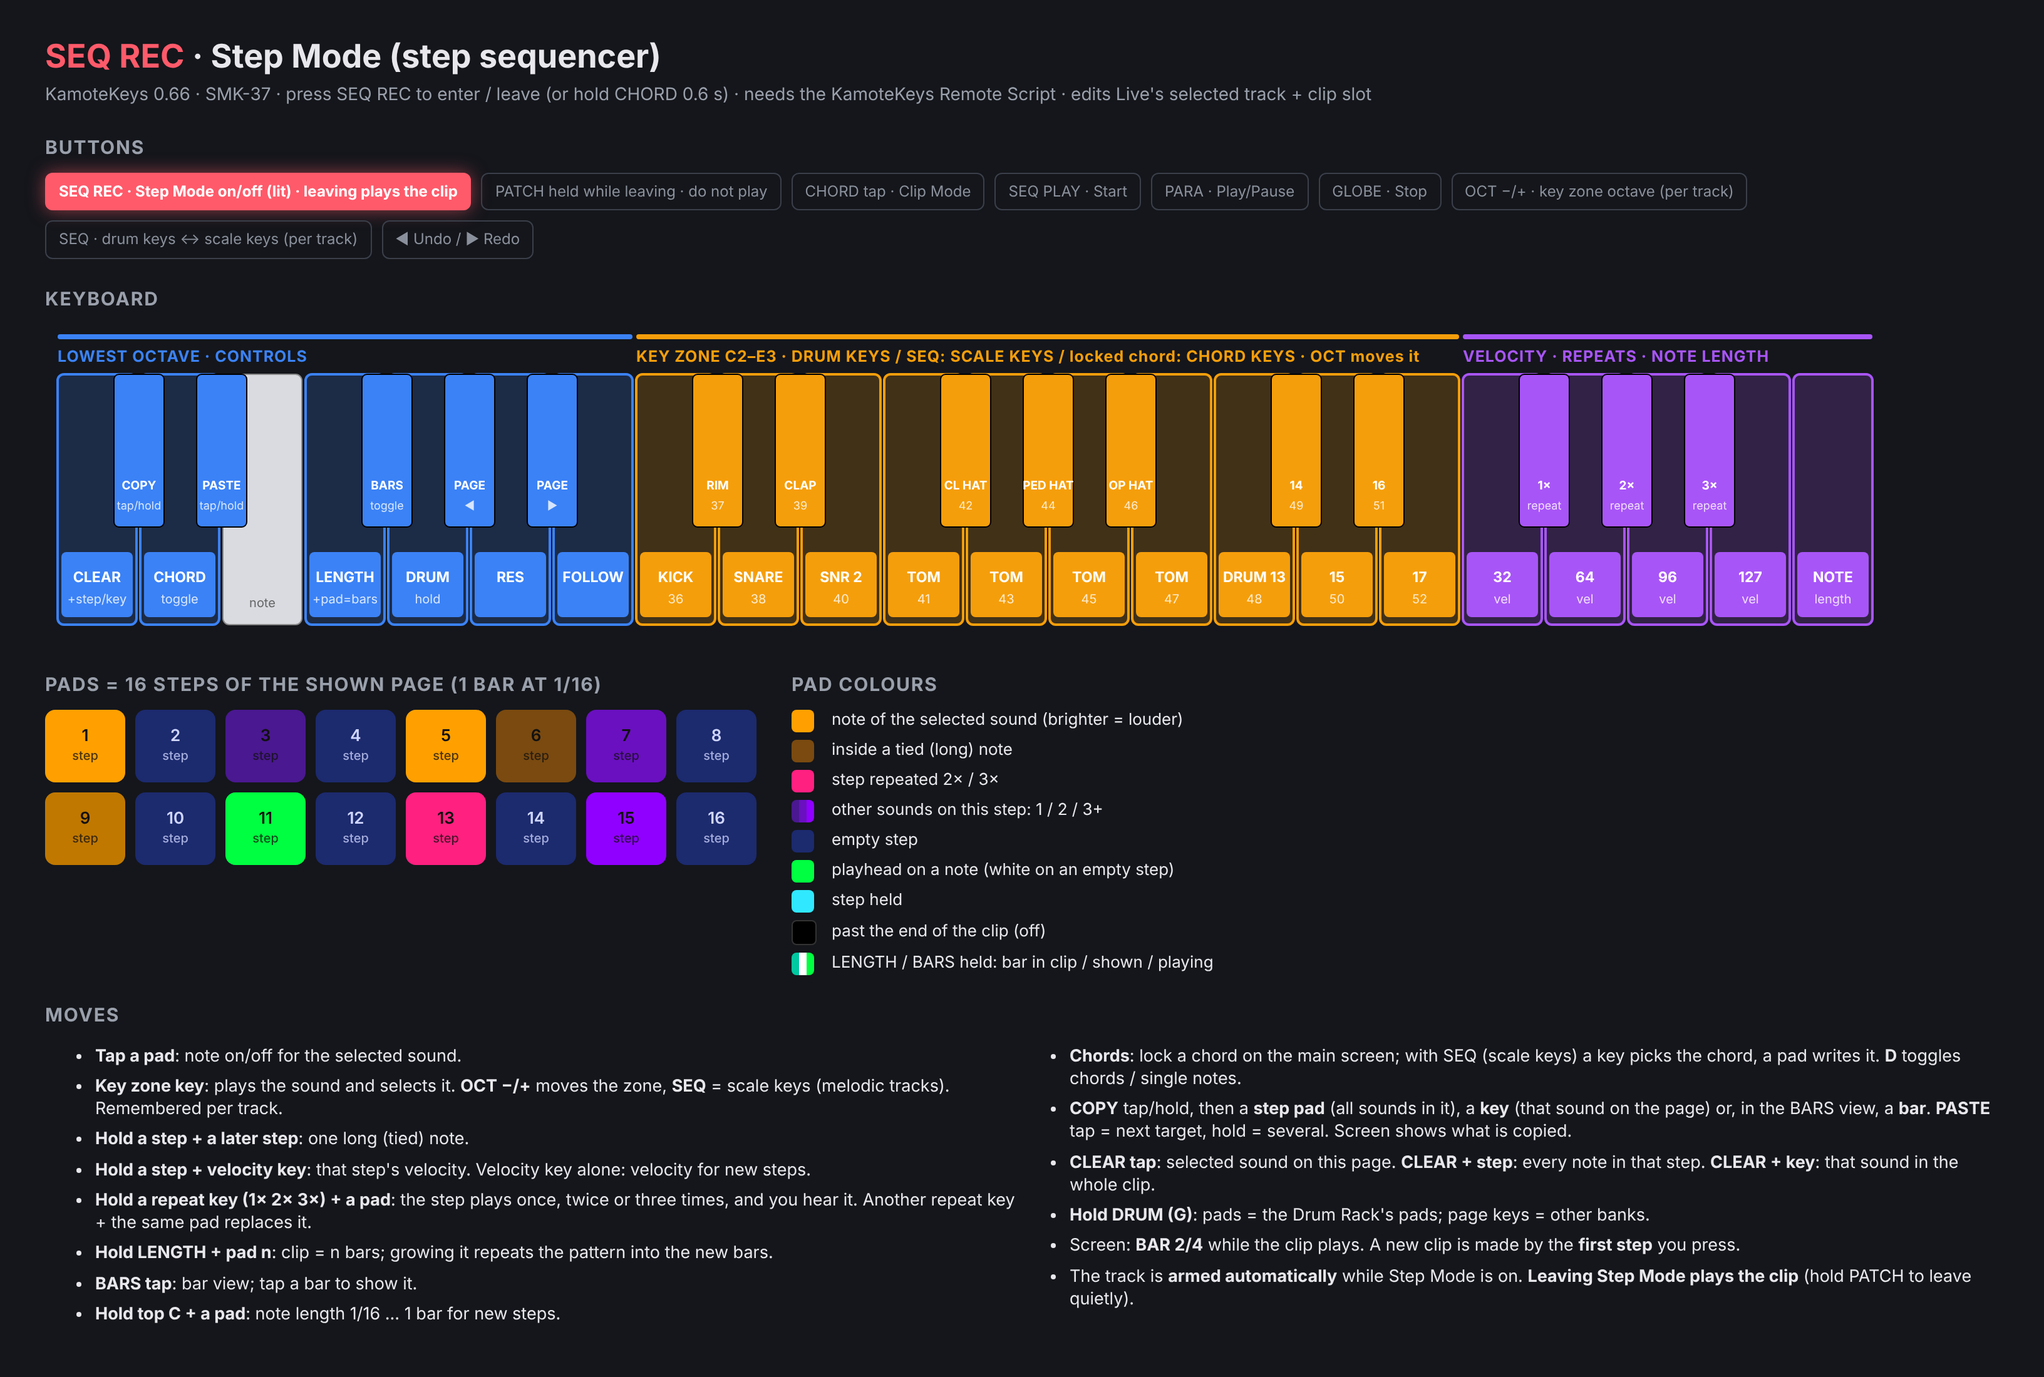
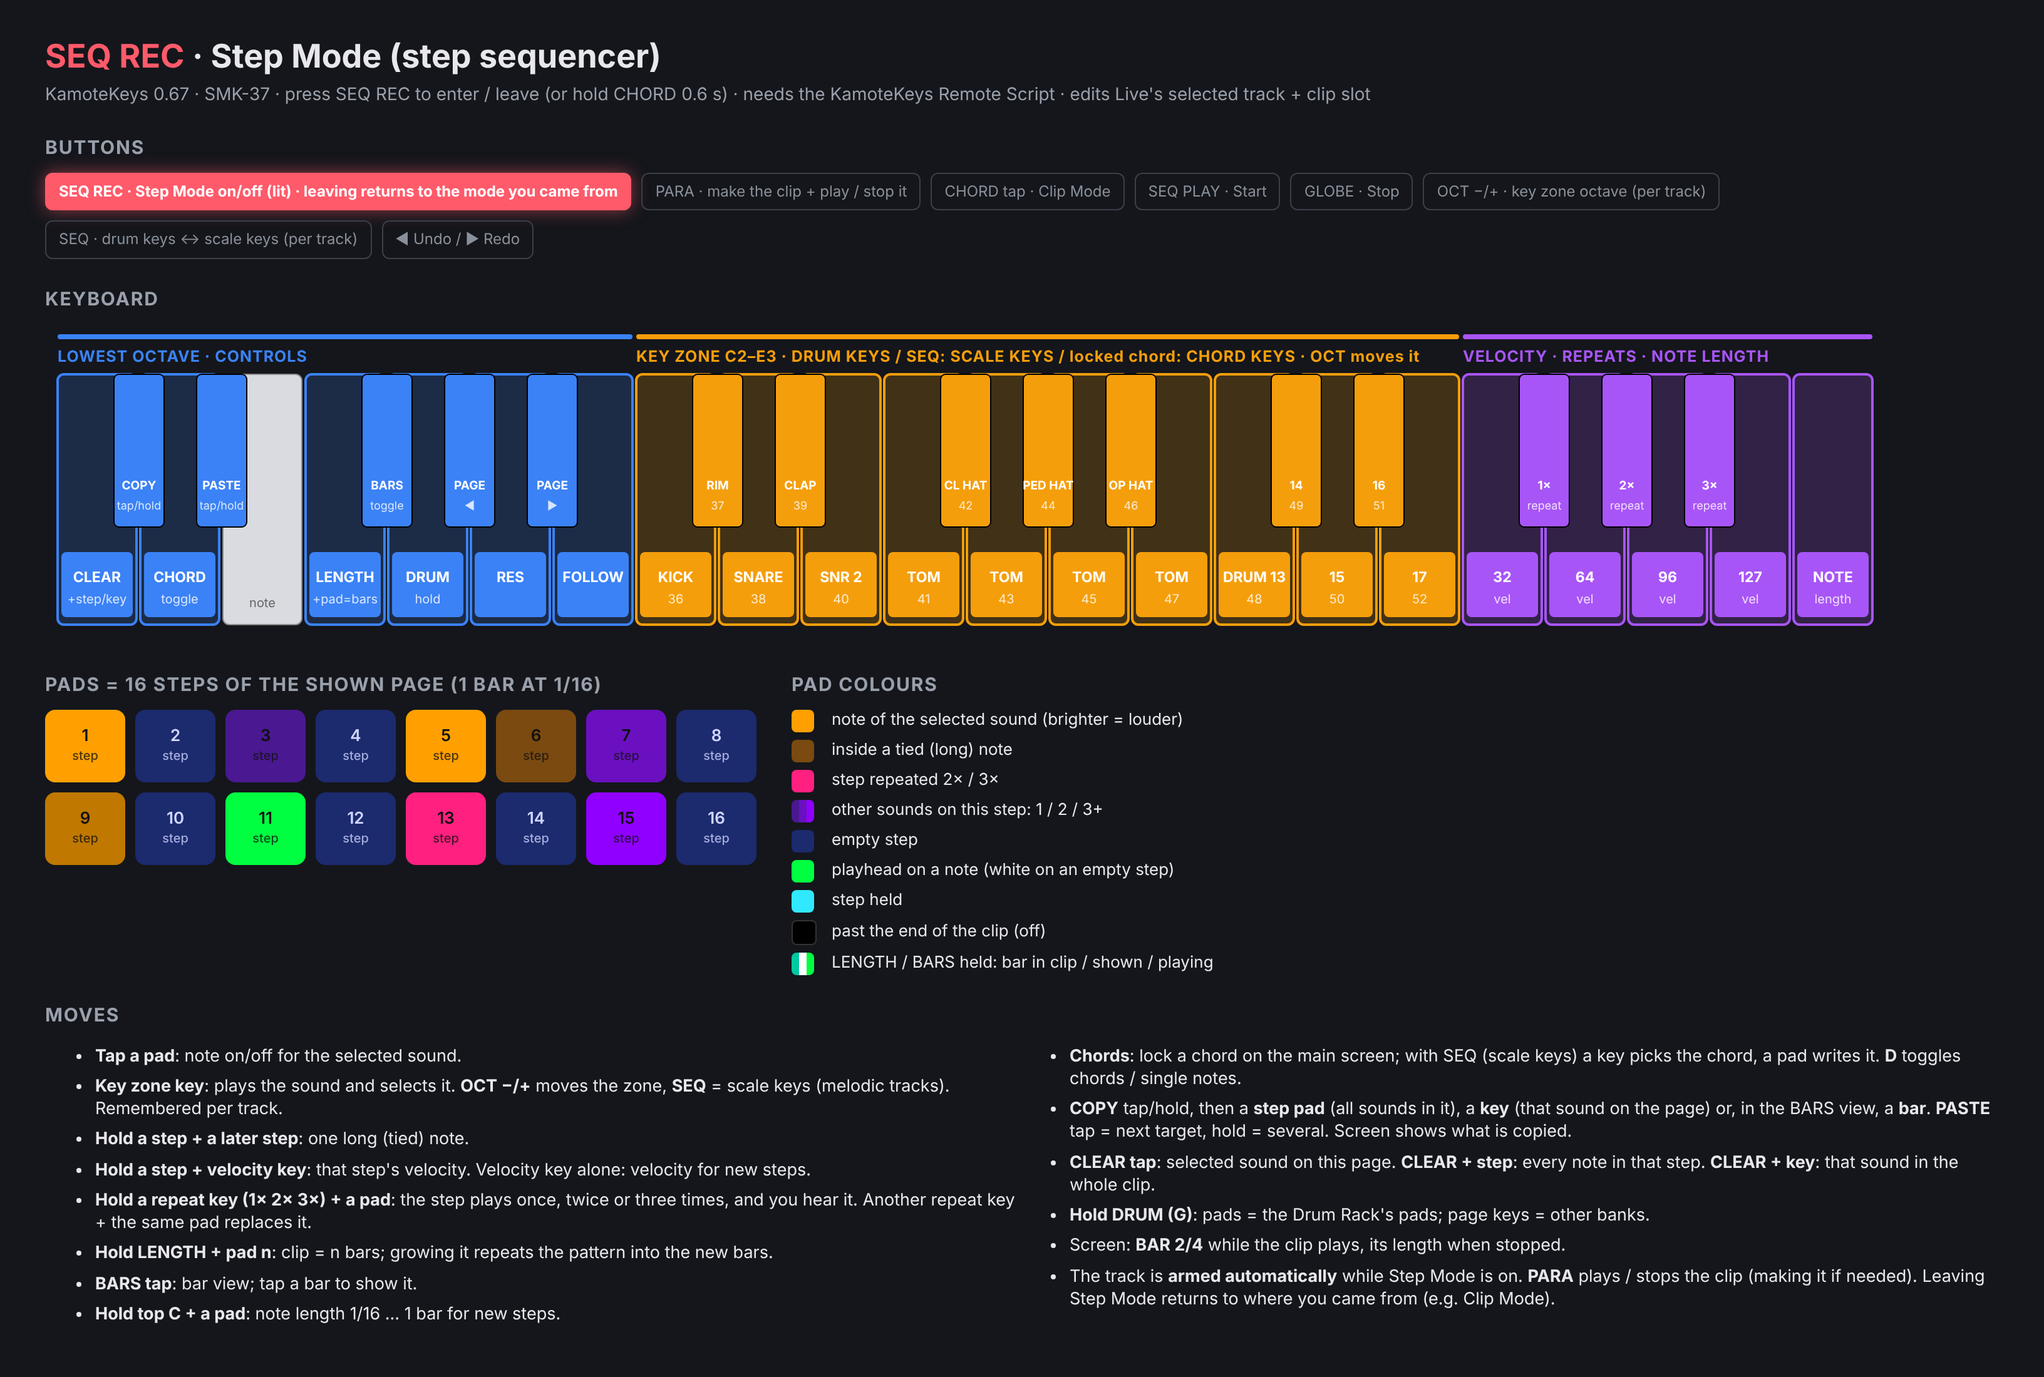
KamoteKeys 0.67: Bubbles startup, Step Mode returns to the previous mode, PARA plays the step clip, DRUM view follows the selected sound, track view on top A/B
Claude-Session: https://claude.ai/code/session_014nKCDtX9z2HT4cnrjTFgfW

diff --git a/tests/remote_script/test_kamotkeys_script.py b/tests/remote_script/test_kamotkeys_script.py
@@ -146,7 +146,7 @@ class T(unittest.TestCase):
         notes = sorted(b.identifier for b in registry if b.msg_type == 0 and b.channel == 15)
         self.assertEqual(notes, list(range(36, 103)))     # launch, overdub, delete, select, COPY, PASTE, ARRANGE
         steps = sorted(b.identifier for b in registry if b.msg_type == 0 and b.channel == 13)
-        self.assertEqual(steps, list(range(36, 52)) + list(range(60, 86)))   # step pads, step functions
+        self.assertEqual(steps, list(range(36, 52)) + list(range(60, 88)))   # step pads, step functions
         self.assertEqual(len([b for b in registry if b.channel == 12]), 128)   # key-zone pitches (ch 13)
         self.assertTrue(all(b.channel in (12, 13, 14, 15) for b in registry))
         self.assertEqual(deliver((0x90, 60, 100)), 0)             # channel 1 notes pass to tracks
@@ -427,12 +427,10 @@ class StepTest(unittest.TestCase):
         self.mode(True); self.tap(0); self.tap(0)
 
     def test_entering_creates_a_named_one_bar_clip(self):
-        self.mode(True)
-        self.assertIsNone(self.clip); self.assertEqual(self.info(100), 3)   # 0.66: no clip until a step is pressed
-        self.tap(0); self.s.update_display()
+        self.mode(True)                                                    # 0.67: a clip is made on entering again
         self.assertIsNotNone(self.clip); self.assertEqual(self.clip.loop_end, 4.0); self.assertEqual(self.clip.name, 'Drums')
         c = self.codes(); self.assertEqual(len(c), 16)
-        self.assertTrue(3 <= c[0] <= 8); self.assertEqual(c[4], 1)      # the first step's note; empty (0.62: no beat marker)
+        self.assertEqual(c[0], 1); self.assertEqual(c[4], 1)             # empty steps (0.62: no beat marker)
         self.assertEqual(self.info(100), 0); self.assertEqual(self.info(97), 1)
 
     def test_steps_write_real_notes(self):
@@ -547,8 +545,10 @@ class StepTest(unittest.TestCase):
         self.assertEqual(self.pitches(), [(38, 0.25)])
         slot = self.song.track.clip_slots[0]; slot.fired = 0
         slot.fire = lambda: setattr(slot, 'fired', slot.fired + 1)
-        deliver((0xBD, 127, 64)); self.assertEqual(slot.fired, 0)         # PATCH held: quiet exit
-        self.mode(True); deliver((0xBD, 127, 0)); self.assertEqual(slot.fired, 1)   # normal exit plays the clip
+        slot.stop = lambda: setattr(slot, 'fired', slot.fired - 1)
+        self.press(87); self.assertEqual(slot.fired, 1)                   # 0.67: PARA (F_PLAY) plays the clip
+        self.clip.is_playing = True; self.press(87); self.assertEqual(slot.fired, 0)   # and stops it
+        self.clip.is_playing = False; deliver((0xBD, 127, 0)); self.assertEqual(slot.fired, 0)   # leaving does not play
 
     def test_bars_key_ghosts_repeats_and_key_prefs(self):
         self.mode(True)
@@ -590,7 +590,7 @@ class StepTest(unittest.TestCase):
         self.assertEqual([n.pitch for n in self.clip.notes], [36])   # still sequences C1
         slot = self.song.track.clip_slots[0]; slot.clip = None; slot.fire('has_clip')
         self.assertEqual(len(scheduled), 1)                               # rebind deferred, not in the listener
-        run_scheduled(); self.assertIsNone(slot.clip); self.assertEqual(self.s._step._status, 3)   # 0.66: waits for a step
+        run_scheduled(); self.assertIsNotNone(slot.clip)                   # a new clip
         self.s.update_display()
 
     def test_leaving_stops_listening(self):

diff --git a/remote_script/KamoteKeys/StepSequencer.py b/remote_script/KamoteKeys/StepSequencer.py
@@ -37,8 +37,9 @@ PAD_NOTE = 36
 PADS = 16
 (F_DRUM, F_PAGE_PREV, F_PAGE_NEXT, F_LENGTH, F_DOUBLE, F_RESOLUTION, F_FOLLOW, F_COPY, F_CLEAR,
  F_VEL_1, F_VEL_2, F_VEL_3, F_VEL_4, F_VEL_5, F_VEL_6, F_VEL_DOWN, F_VEL_UP, F_PASTE,
- F_BARS, F_OCT_DOWN, F_OCT_UP, F_SCALE_KEYS, F_REPEAT_1, F_REPEAT_2, F_REPEAT_3, F_NOTE_LEN) = range(60, 86)
-FUNCTION_NOTES = tuple(range(60, 86))
+ F_BARS, F_OCT_DOWN, F_OCT_UP, F_SCALE_KEYS, F_REPEAT_1, F_REPEAT_2, F_REPEAT_3, F_NOTE_LEN,
+ F_CHORD_TOGGLE, F_PLAY) = range(60, 88)          # F_CHORD_TOGGLE stays on the keyboard
+FUNCTION_NOTES = tuple(range(60, 88))
 REPEATS = {F_REPEAT_1: 1, F_REPEAT_2: 2, F_REPEAT_3: 3}
 SELECT_CHANNEL = 12                    # device -> host: channel 13 note = key-zone pitch picked (0.62)
 CODE_CC, PAGE_CC, PAGES_CC, RES_CC, FOLLOW_CC, STATUS_CC, DRUMVIEW_CC, ACTIVE_CC = 80, 96, 97, 98, 99, 100, 101, 102
@@ -149,7 +150,7 @@ class StepSequencer(object):
         if on and not self._active:
             self._active = True
             self._log('Step Mode started')
-            self._bind(create=False)   # 0.66: the clip is made by the first step (Move-style)
+            self._bind(create=True)
             self.send_all()
         elif not on and self._active:
             self._active = False
@@ -178,7 +179,7 @@ class StepSequencer(object):
     def _deferred_bind(self):
         self._bind_pending = False
         if self._active:
-            self._bind(create=False)   # 0.66: the clip is made by the first step (Move-style)
+            self._bind(create=True)
             self.send_all()
 
     def _bind(self, create):
@@ -617,6 +618,10 @@ class StepSequencer(object):
             pref[0] = max(-3, min(4, pref[0] + (1 if note == F_OCT_UP else -1)))
             self._save_prefs()
             self._say('key octave %+d' % pref[0])
+        elif note == F_PLAY:
+            self._play_clip()
+        elif note == F_DRUM and self._pitch is not None:
+            self._bank = max(0, min(112, 36 + ((self._pitch - 36) // 16) * 16))   # 0.67: the selected sound's bank
         elif note == F_BARS:
             self._bars_view = not self._bars_view           # 0.63: tap toggles the bar view
         elif note == F_SCALE_KEYS:
@@ -906,6 +911,21 @@ class StepSequencer(object):
         except Exception as error:
             self._log('cannot repeat the step: %s' % error)
         self._dirty = True
+
+    def _play_clip(self):
+        """PARA in Step Mode (0.67): make the clip if there is none, then
+        launch it; pressed while it plays, stop it."""
+        if not self._ensure_clip():
+            return
+        try:
+            if self._clip.is_playing or self._clip.is_triggered:
+                self._slot.stop()
+                self._say('clip stopped')
+            else:
+                self._slot.fire()
+                self._say('clip playing')
+        except Exception as error:
+            self._log('cannot play the clip: %s' % error)
 
     def _clear_step(self, index):
         if self._clip is None:

diff --git a/core/kamotkeys/kk_boot.h b/core/kamotkeys/kk_boot.h
@@ -1,0 +1,42 @@
+/* SPDX-License-Identifier: GPL-3.0-only WITH GPL-3.0-linking-exception
+ * Bubbles boot (0.67), shared by the LCD (kk_scr_pages.inc) and the pads
+ * (devices/smk37/app/kamotkeys/kk_led_rgb.c): white piano keys drop in and
+ * bounce, flat bubbles in an earthy pastel palette pop up behind them, the
+ * black keys pop, one colour sweep runs over the keys and the name pops in
+ * letter by letter. Integer maths only. */
+#ifndef KK_BOOT_H
+#define KK_BOOT_H
+#include <stdint.h>
+
+/* coral apricot mustard lime mint teal sky violet */
+static const uint32_t kk_boot_palette[8] = {
+    0xd67060, 0xdc8c50, 0xccae40, 0x96ba50, 0x4eb07c, 0x40a0b4, 0x548cce, 0x806cc4};
+
+/* Bubble i (also pad i): pop start in ms, position on the 240-wide screen
+ * (y from the top of the boot band) and radius. */
+struct kk_boot_bubble { uint16_t t0; uint8_t x, y, r; };
+static const struct kk_boot_bubble kk_boot_bubbles[16] = {
+    {0, 22, 12, 15}, {50, 47, 2, 13}, {99, 73, 24, 17}, {149, 104, 8, 11}, {198, 128, 18, 19}, {248, 162, 4, 12},
+    {298, 188, 16, 16}, {347, 216, 6, 13}, {397, 18, 92, 17}, {446, 50, 104, 12}, {496, 78, 88, 15}, {545, 106, 108, 11},
+    {595, 136, 96, 19}, {645, 160, 110, 13}, {694, 190, 90, 17}, {744, 220, 100, 14}};
+
+/* Ease-outs in permille (in and out). */
+static inline int kk_boot_bounce(int p)          /* drop with two bounces */
+{
+    if (p <= 0) return 0;
+    if (p >= 1000) return 1000;
+    if (p < 364) return 7562 * p / 1000 * p / 1000;
+    if (p < 727) { p -= 545; return 7562 * p / 1000 * p / 1000 + 750; }
+    if (p < 909) { p -= 818; return 7562 * p / 1000 * p / 1000 + 937; }
+    p -= 955; return 7562 * p / 1000 * p / 1000 + 984;
+}
+static inline int kk_boot_pop(int p)             /* 0 -> ~1100 -> 1000 (overshoot) */
+{
+    if (p <= 0) return 0;
+    if (p >= 1000) return 1000;
+    int q = p - 1000;                            /* -1000..0 */
+    return 1000 + 2900 * q / 1000 * q / 1000 * q / 1000 + 1900 * q / 1000 * q / 1000;
+}
+enum { KK_BOOT_KEY_STEP = 96, KK_BOOT_KEY_MS = 560, KK_BOOT_BLACK_AT = 800, KK_BOOT_SWEEP_AT = 960,
+       KK_BOOT_NAME_AT = 1040, KK_BOOT_LETTER_STEP = 25, KK_BOOT_LETTER_MS = 125 };
+#endif

diff --git a/tests/host/test_live.c b/tests/host/test_live.c
@@ -112,9 +112,17 @@ void test_031(void)
     key(10, 0); CHECK(kk.clip_action == 0, "key released: back to the plain press");
     host_clear(); key(8, 100); key(8, 0);
     CHECK(out_count(USB, 0x9F, KK_CLIP_ARRANGE_NOTE) == 1 && out_count(USB, 0x8F, KK_CLIP_ARRANGE_NOTE) == 1, "0.66: G# = Scene Arrange (note 102)");
-    host_clear(); key(2, 100); key(2, 0); key(4, 100); key(4, 0);
+    host_clear(); key(33, 100); key(33, 0); key(35, 100); key(35, 0);
     CHECK(out_count(USB, CC15, KK_CC_TRACKS_LEFT) == 2 && out_count(USB, CC15, KK_CC_TRACKS_RIGHT) == 2 && out_count(USB, 0x90, -1) == 0,
-          "D / E: track view left / right (CC 31 / 32), no notes");
+          "0.67: top A / B: track view left / right (CC 31 / 32), no notes");
+    host_clear(); key(2, 100); key(2, 0); CHECK(out_count(USB, 0x90, -1) == 1, "D plays a note again in Clip Mode");
+    /* 0.67: Step Mode entered from Clip Mode returns to Clip Mode; PARA there plays the clip. */
+    tap(KK_BTN_REC); CHECK(kk.mode == KK_MODE_STEP, "SEQ REC from Clip Mode -> Step Mode");
+    host_clear(); tap(KK_BTN_PARA);
+    CHECK(out_count(USB, 0x9D, KK_STEP_PLAY) == 1 && out_count(USB, CC15, KK_CC_PLAY_PAUSE) == 0, "PARA in Step Mode: play the clip (not Play/Pause)");
+    host_clear(); btn(KK_BTN_PATCH, 1); tap(KK_BTN_PARA); btn(KK_BTN_PATCH, 0);
+    CHECK(out_count(USB, CC15, KK_CC_METRONOME) == 2, "PATCH + PARA is still the metronome");
+    tap(KK_BTN_REC); CHECK(kk.mode == KK_MODE_CLIP, "SEQ REC again -> back to Clip Mode");
     host_in(0xBF, KK_HOST_TRACKS_CC, 3); host_in(0xBF, KK_HOST_ARRANGE_CC, 1); host_in(0xBF, KK_CLIP_STATE_CC + 0, KK_CLIP_ARR_ON);
     host_in(0xBF, KK_CLIP_STATE_CC + 1, KK_CLIP_ARR_OFF); settle();
     CHECK(kk_midi_host_tracks() == 3 && kk_midi_arrange() && ((host_rgb[0] >> 8) & 255) > ((host_rgb[1] >> 8) & 255) * 3,

diff --git a/devices/smk37/app/kamotkeys/kk_led_rgb.c b/devices/smk37/app/kamotkeys/kk_led_rgb.c
@@ -4,6 +4,7 @@
  * refresh. Colours come from the shared logic (core/kamotkeys/kk_led.c);
  * app/board/panel.c maps pads onto the LED chain. */
 #include "kk_led_util.h"
+#include "kk_boot.h"
 #include "kk_perform.h"
 #include "kk_midi.h"
 
@@ -66,14 +67,11 @@ static uint32_t show(unsigned pattern, unsigned pad, unsigned t)
  * from left to right, then the normal colours fade in. */
 static uint32_t aurora(unsigned pad, unsigned ms)
 {
-    unsigned row = pad / 8, col = pad % 8;
-    /* Wave head in 1/256 pad units: from column -2 to 10 over the boot. */
-    int head = -512 + (int)(ms * 3072U / KK_BOOT_MS) - (int)row * 64;
-    int d = (int)col * 256 - head; if (d < 0) d = -d;
-    unsigned b = d < 512 ? (unsigned)(512 - d) * 255U / 512U : 0;
-    b = b * b / 255U * 120U / 255U;                          /* soft, at most ~47 % */
-    uint32_t c = mix(0x00c8b4, 0x8a4cff, col * 255U / 7U);
-    return scale(c, b);
+    /* 0.67 Bubbles boot: each pad lights in its bubble's colour as it pops. */
+    const struct kk_boot_bubble *b = &kk_boot_bubbles[pad];
+    if (ms < b->t0 + 50U) return 0;
+    unsigned k = ms - b->t0 - 50U; k = k > 200U ? 200U : k;
+    return scale(kk_boot_palette[pad % 8], 90U + k * 110U / 200U);   /* quick pop to ~80 % */
 }
 
 /* --------------------------------------------------------------- output */

diff --git a/core/kamotkeys/kk_config.h b/core/kamotkeys/kk_config.h
@@ -12,7 +12,7 @@
 #define KK_CONFIG_H
 
 #define KAMOTKEYS_NAME "KamoteKeys"
-#define KAMOTKEYS_VERSION "0.66" KK_DEVICE_SUFFIX
+#define KAMOTKEYS_VERSION "0.67" KK_DEVICE_SUFFIX
 #define KAMOTKEYS_TITLE KAMOTKEYS_NAME " " KAMOTKEYS_VERSION
 
 /* MIDI channels, zero based (channel 1 = 0). */
@@ -84,6 +84,7 @@ enum {
     KK_STEP_BARS, KK_STEP_OCT_DOWN, KK_STEP_OCT_UP, KK_STEP_SCALE_KEYS,
     KK_STEP_REPEAT_1, KK_STEP_REPEAT_2, KK_STEP_REPEAT_3, KK_STEP_NOTE_LEN,
     KK_STEP_CHORD_TOGGLE,   /* keyboard only: chord keys <-> single notes (never sent) */
+    KK_STEP_PLAY,           /* 0.67: PARA in Step Mode: create the clip if needed, play / stop it */
     KK_STEP_CODE_CC = 80, KK_STEP_PAGE_CC = 96, KK_STEP_PAGES_CC = 97, KK_STEP_RES_CC = 98,
     KK_STEP_FOLLOW_CC = 99, KK_STEP_STATUS_CC = 100, KK_STEP_DRUMVIEW_CC = 101, KK_STEP_ACTIVE_CC = 102,
     KK_STEP_KEYOCT_CC = 103, KK_STEP_KEYS_CC = 104, KK_STEP_BAR_CC = 105, KK_STEP_BARS_CC = 106,

diff --git a/devices/smk37/app/kamotkeys/kk_device.h b/devices/smk37/app/kamotkeys/kk_device.h
@@ -25,7 +25,7 @@ enum { KK_VELOCITY_DEFAULT = 100 };
  * A plain pad press selects (slot + arm) unless toggled to play. */
 #define KK_CLIP_PRESS_SELECT 1
 enum { KK_CLIP_COPY_KEY = 1, KK_CLIP_PASTE_KEY = 3, KK_CLIP_TOGGLE_KEY = 6, KK_CLIP_ARRANGE_KEY = 8,   /* G#: Scene Arrange (0.66) */
-       KK_TRACKS_LEFT_KEY = 2, KK_TRACKS_RIGHT_KEY = 4,                                          /* D / E: 8-track view (0.66) */
+       KK_TRACKS_LEFT_KEY = 33, KK_TRACKS_RIGHT_KEY = 35,                                        /* top A / B: 8-track view (0.67) */
        KK_CLIP_DELETE_KEY = 10, KK_CLIP_OVERDUB_KEY = 255 };
 /* The third black key (F#) held + clip = SELECT (select the slot, arm its
  * track); the fourth (G#) = launch the selected scene; the last two black

diff --git a/core/kk_controls.c b/core/kk_controls.c
@@ -313,7 +313,8 @@ static void reroute_all(void)
 void kk_settings_touch(void) { ++kk.edit_revision; groove_settings_panel_changed(); }
 void kk_set_mode(unsigned mode)
 {
-    if (mode == kk.mode) mode = KK_MODE_NORMAL;     /* same button again: normal */
+    if (mode == kk.mode) mode = mode == KK_MODE_STEP ? kk.step_from : KK_MODE_NORMAL;   /* same button again: back */
+    if (mode == KK_MODE_STEP) kk.step_from = kk.mode;   /* 0.67: leaving Step Mode returns here (e.g. Clip Mode) */
     hold_release();                                   /* sustained notes belong to the old mode */
     /* 0.62: a chord LOCK survives every mode change (it is released only
      * with the LOCK pad), and the keys keep playing the locked chord. */

diff --git a/core/screen.c b/core/screen.c
@@ -12,6 +12,7 @@
 #include "kamotkeys/kk_perform.h"
 #include "kamotkeys/kk_midi.h"
 #include "kamotkeys/kk_led.h"
+#include "kamotkeys/kk_boot.h"
 #include "instrument.h"
 #include "fm_patch.h"
 #include "version.h"
@@ -111,7 +112,7 @@ static void signatures(void)
     if (booting) {
         wanted[W_BOOT] = mixsig(base, now_ms / 30);
         uint32_t t = now_ms - boot_started;
-        wanted[W_BOOT_TEXT] = mixsig(base, (t >= 650) + 2 * (t >= KK_BOOT_MS) + 4 * fm1_midi_ready_ports());
+        wanted[W_BOOT_TEXT] = mixsig(base, t >= KK_BOOT_NAME_AT && t < KK_BOOT_NAME_AT + 400 ? now_ms / 30 : (t >= KK_BOOT_NAME_AT) + 2 * (t >= KK_BOOT_MS));
         return;
     }
     wanted[W_HEADER] = mixsig(base, fm1_midi_ready_ports());

diff --git a/core/kamotkeys/kk_perform.h b/core/kamotkeys/kk_perform.h
@@ -43,6 +43,7 @@ struct kk_state {
     uint16_t pads;                           /* physical pad bitmap        */
     uint16_t chord_mods;                     /* active chord-pad modifiers */
     uint8_t anim_active, anim_pattern;
+    uint8_t step_from;                       /* mode Step Mode was entered from (0.67: leaving returns there) */
     uint8_t clip_play;                       /* Clip Mode pads: 0 = select (default), 1 = play (0.65, saved) */
     uint8_t step_single;                     /* Step Mode: locked chord keys pick single notes (0.64 toggle) */
     uint32_t anim_phase;                     /* 2^32 per animation cycle   */

diff --git a/remote_script/KamoteKeys/KamoteKeys.py b/remote_script/KamoteKeys/KamoteKeys.py
@@ -231,7 +231,7 @@ class KamoteKeys(ControlSurface):
         # 127 = start; leaving: 0 = and play the clip, 64 = quietly (PATCH held).
         if value == 127:
             self._step_seen = time.time()   # also the 2 s heartbeat (0.66)
-        self._step.set_active(value == 127, play=value == 0)
+        self._step.set_active(value == 127)   # 0.67: leaving no longer plays the clip (PARA does)
         self._cp.reset()
         self._refresh_clipboard()
 

diff --git a/core/kamotkeys/kk_led.h b/core/kamotkeys/kk_led.h
@@ -8,7 +8,7 @@
 #define KK_LED_H
 #include <stdint.h>
 
-enum { KK_BOOT_MS = 1100, KK_BOOT_FADE_MS = 350 };
+enum { KK_BOOT_MS = 1700, KK_BOOT_FADE_MS = 350 };   /* 0.67 bubbles boot */
 
 /* SMK-37 only: final 0xRRGGBB for pad 0..15 (after Fader 4). boot_ms = time since the
  * Aurora boot started, or >= KK_BOOT_MS + KK_BOOT_FADE_MS when finished. */
